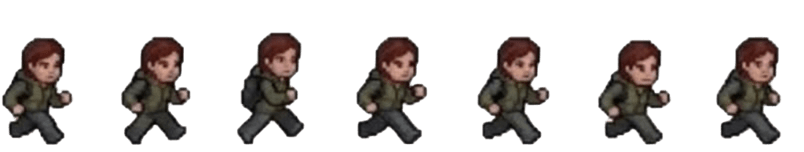
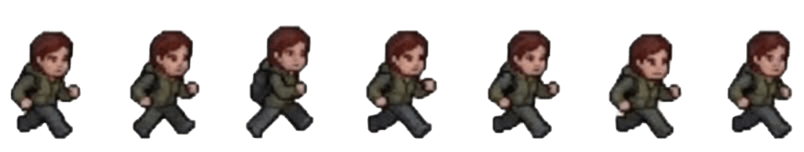
Alteração da lógica das sprites e substituição de personagens

diff --git a/Js/sprite.js b/Js/sprite.js
@@ -27,14 +27,14 @@ export class Sprite {
 
         this.sprites = sprites || {};
         this.currentSprite = this.sprites.idle || null;
-        this.image = new Image();
+        this.images = [];
         if(this.currentSprite) {
-            this.image.src = this.currentSprite.src;
+            this.loadSprite(this.currentSprite);
         }
         this.offset = offset;
 
-        this.width = 70;
-        this.height = 190;
+        this.width = 349;
+        this.height = 186;
 
         this.currentFrame = 0;
         this.elapseTime = 0;
@@ -56,13 +56,27 @@ export class Sprite {
         this.score = 0;
     }
 
+    loadSprite(sprite) {
+    this.images = [];
+
+    const spriteName = Object.keys(this.sprites).find(
+        key => this.sprites[key] === sprite
+    );
+
+    for (let i = 1; i <= sprite.totalFrames; i++) {
+        const image = new Image();
+        image.src = `${sprite.src}${spriteName}-${i}.png`;
+        this.images.push(image);
+    }
+}
+
     setSprite(sprite) {
         const nextSprite = this.sprites[sprite];
 
         if (!nextSprite || this.currentSprite === nextSprite) return;
 
         this.currentSprite = nextSprite;
-        this.image.src = nextSprite.src;
+        this.loadSprite(nextSprite);
         this.totalFrames = nextSprite.totalFrames;
         this.framesPerSprite = nextSprite.framesPerSprite;
         this.currentFrame = 0;
@@ -74,37 +88,33 @@ export class Sprite {
             return;
         }
         
+        const image = this.images[this.currentFrame];
+
+        if(!image || !image.complete || image.naturalWidth === 0) {
+            return;
+        }
+        
         ctx.save();
         ctx.translate(this.position.x, this.position.y);
 
-        if (this.direction === -1) {
+        if (this.direction === 1) {
             ctx.scale(-1, 1);
         }
 
-        //ctx.fillRect(-this.width / 2, -this.height, this.width, this.height);
+        const drawHeight = this.enemyHeight && this.currentSprite !== this.sprites.attack
+        ? this.enemyHeight
+        : this.height;
+        
         ctx.drawImage(
-            this.image,
-            this.currentFrame * (this.image.width / this.totalFrames),
-            0,
-            this.image.width / this.totalFrames,
-            this.image.height,
-            -(this.currentSprite === this.sprites.attack ? this.width : this.width / 2) + this.offset.x,
-            -this.height + this.offset.y,
-            this.currentSprite === this.sprites.attack ? this.width * 2 : this.width,
-            this.height
+            image,
+            -(image.naturalWidth / image.naturalHeight * drawHeight) / 2 + this.offset.x,
+            -drawHeight + this.offset.y,
+            image.naturalWidth / image.naturalHeight * drawHeight,
+            drawHeight
         );
 
         this.attackBox.position.x = this.width / 2;
         this.attackBox.position.y = -this.height + 50;
-        /*if (this.isAttacking) {
-            ctx.fillStyle = 'yellow';
-            ctx.fillRect(
-                this.attackBox.position.x,
-                this.attackBox.position.y,
-                this.attackBox.width,
-                this.attackBox.height
-            )
-        }*/
 
         ctx.restore();
     }
@@ -156,7 +166,7 @@ export class Sprite {
 
         setTimeout(() => {
             this.isAttacking = false;
-        }, 500)
+        }, 1000)
     }
 
     updateHP(target) {

diff --git a/Js/game.js b/Js/game.js
@@ -156,42 +156,31 @@ const createEnemies = (positionX) => {
             x: positionX,
             y: 0
         },
+        enemyHeight: 130,
         velocity: {
             x: 3,
             y: 0
         },
         sprites: {
-            idle: {
-                src: 'Imgs/Ghost imgs/Ghost-idle.png',
-                totalFrames: 7,
-                framesPerSprite: 10,
-                loop: true
-            },
-            walk: {
-                src: 'Imgs/Ghost imgs/Ghost-walk.png',
-                totalFrames: 8,
-                framesPerSprite: 10,
-                loop: true
-            },
-            jump: {
-                src: 'Imgs/Ghost imgs/Ghost-jump.png',
-                totalFrames: 7,
-                framesPerSprite: 10,
-                loop: true
-            },
-            attack: {
-                src: 'Imgs/Ghost imgs/Ghost-attack.png',
-                totalFrames: 6,
-                framesPerSprite: 10,
-                loop: true
-            },
-            death: {
-                src: 'Imgs/Ghost imgs/Ghost-death.png',
-                totalFrames: 7,
-                framesPerSprite: 10,
-                loop: false
-            }
-        }
+        idle: {
+            src: 'Imgs/Husk-imgs/idle/',
+            totalFrames: 6,
+            framesPerSprite: 10,
+            loop: true
+        },
+        walk: {
+            src: 'Imgs/Husk-imgs/walk/',
+            totalFrames: 7,
+            framesPerSprite: 10,
+            loop: true
+        },
+        attack: {
+            src: 'Imgs/Husk-imgs/attack/',
+            totalFrames: 8,
+            framesPerSprite: 10,
+            loop: false
+        },
+        },
     });
 
     enemy.id = positionX;

diff --git a/Js/player.js b/Js/player.js
@@ -11,32 +11,32 @@ export const player = new Sprite({
     },
     sprites: {
         idle: {
-            src: 'Imgs/Ghost imgs/Ghost-idle.png',
-            totalFrames: 7,
+            src: 'Imgs/Knight-imgs/idle/',
+            totalFrames: 9,
             framesPerSprite: 10,
             loop: true
         },
         walk: {
-            src: 'Imgs/Ghost imgs/Ghost-walk.png',
+            src: 'Imgs/Knight-imgs/walk/',
             totalFrames: 8,
             framesPerSprite: 10,
             loop: true
         },
         jump: {
-            src: 'Imgs/Ghost imgs/Ghost-jump.png',
-            totalFrames: 7,
+            src: 'Imgs/Knight-imgs/jump/',
+            totalFrames: 6,
             framesPerSprite: 10,
             loop: true
         }, 
         attack: {
-            src: 'Imgs/Ghost imgs/Ghost-attack.png',
-            totalFrames: 6,
-            framesPerSprite: 10,
-            loop: false
+            src: 'Imgs/Knight-imgs/attack/',
+            totalFrames: 8,
+            framesPerSprite: 6,
+            loop: false 
         },
         death: {
-            src: 'Imgs/Ghost imgs/Ghost-death.png',
-            totalFrames: 7,
+            src: 'Imgs/Knight-imgs/death/',
+            totalFrames: 14,
             framesPerSprite: 10,
             loop: false
         },

diff --git a/Js/enemy.js b/Js/enemy.js
@@ -5,8 +5,10 @@ import { groundY } from "./sprite.js";
 
 
 export class Enemy extends Sprite {
-    constructor({position, velocity, sprites, offset = {x: 0, y: 0}}) {
+    constructor({position, velocity, sprites, offset = {x: 0, y: 0}, enemyHeight = 186}) {
         super({position, velocity, sprites, offset: {x: 0, y: 0}});
+
+        this.enemyHeight = enemyHeight;
 
         this.state = "MOVING";
 
